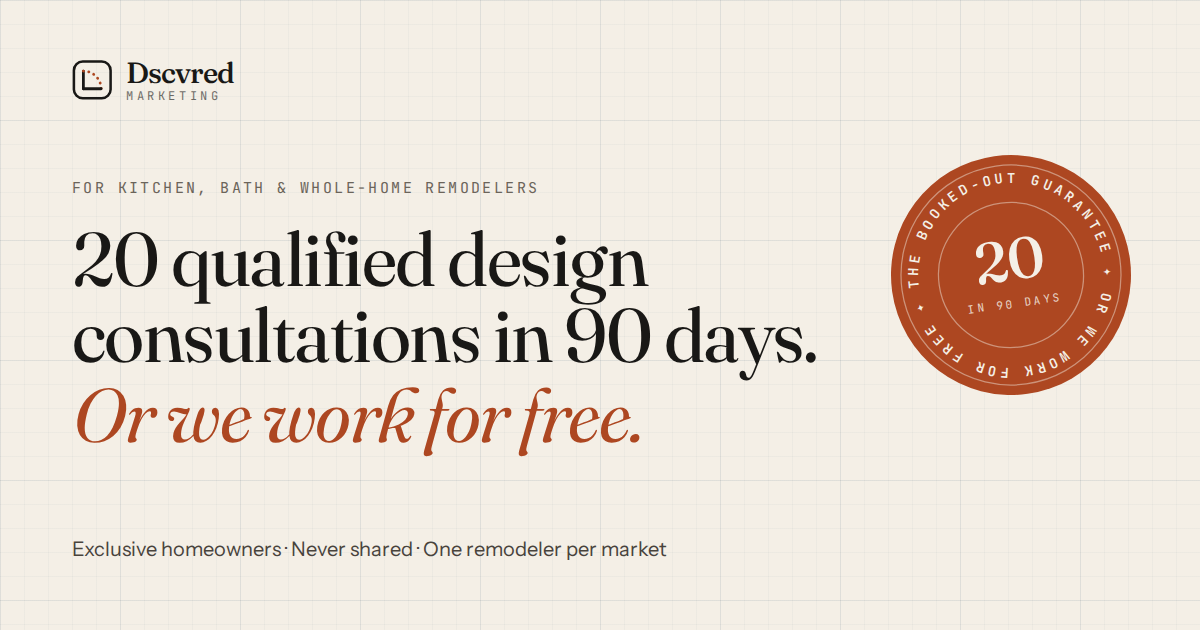
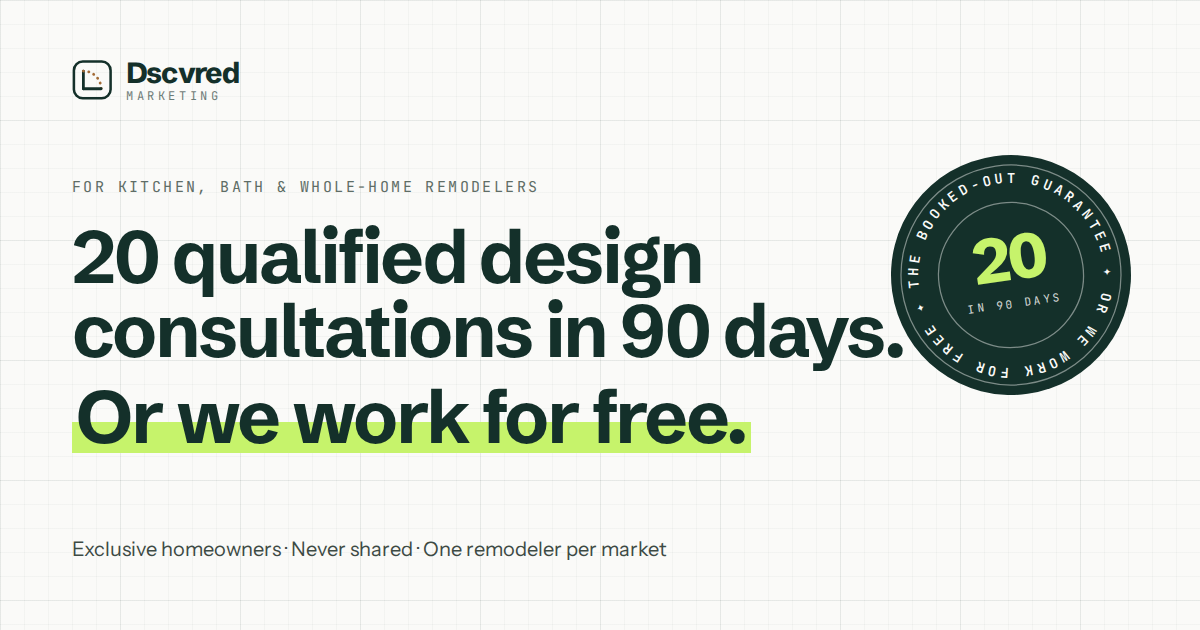
Retheme landing page to forest green, oak and lime
Replace the cream/terracotta serif look with bone-white pages, deep
forest sections, oak accents, lime calls to action and Schibsted
Grotesk headlines with a highlighter treatment. Regenerate OG image
and favicon to match.

Claude-Session: https://claude.ai/code/session_01GncxjucWYBxJEYKny6fkSn

diff --git a/site/src/styles/global.css b/site/src/styles/global.css
@@ -1,30 +1,31 @@
 @import "tailwindcss";
 
-@import "@fontsource-variable/fraunces/opsz.css";
-@import "@fontsource-variable/fraunces/opsz-italic.css";
+@import "@fontsource-variable/schibsted-grotesk/wght.css";
 @import "@fontsource-variable/instrument-sans/wght.css";
 @import "@fontsource-variable/jetbrains-mono/wght.css";
 
 @theme {
-  --color-paper: #f4efe6;
-  --color-paper-2: #ebe4d7;
-  --color-card: #fbf8f3;
-  --color-ink: #191816;
-  --color-ink-2: #262421;
-  --color-ink-3: #34312c;
-  --color-body: #48433c;
-  --color-muted: #6b645a;
-  --color-line: #d9d0c0;
-  --color-line-dark: #3d3a35;
-  --color-clay: #ad4721;
-  --color-clay-dark: #8f3817;
-  --color-clay-soft: #f2ddd0;
-  --color-brass: #c39a5a;
-  --color-blueprint: #2f4b6e;
-  --color-sage: #3e6a4f;
-  --color-sage-soft: #dfe9df;
+  /* Forest & oak: bone-white pages, deep forest sections, oak accents, lime calls to action */
+  --color-paper: #fafaf8;
+  --color-paper-2: #eff2ee;
+  --color-card: #ffffff;
+  --color-ink: #14302a;
+  --color-ink-2: #1b3b33;
+  --color-ink-3: #24493f;
+  --color-body: #3d4a44;
+  --color-muted: #5f6d66;
+  --color-line: #dce3dd;
+  --color-line-dark: #2f5247;
+  --color-oak: #8c5a2b;
+  --color-oak-dark: #6f4520;
+  --color-oak-light: #d9a877;
+  --color-lime: #c6f36b;
+  --color-lime-dark: #b2e24f;
+  --color-lime-soft: #eef8d9;
+  --color-sage: #2f7d55;
+  --color-sage-soft: #e1f1e6;
 
-  --font-display: "Fraunces Variable", ui-serif, Georgia, serif;
+  --font-display: "Schibsted Grotesk Variable", ui-sans-serif, system-ui, sans-serif;
   --font-sans: "Instrument Sans Variable", ui-sans-serif, system-ui, sans-serif;
   --font-mono: "JetBrains Mono Variable", ui-monospace, SFMono-Regular, monospace;
 
@@ -50,16 +51,16 @@
   h1, h2, h3, h4 {
     font-family: var(--font-display);
     color: var(--color-ink);
-    font-optical-sizing: auto;
-    letter-spacing: -0.02em;
-    line-height: 1.05;
-    font-weight: 420;
+    letter-spacing: -0.035em;
+    line-height: 1.04;
+    font-weight: 700;
     text-wrap: balance;
   }
   p { text-wrap: pretty; }
-  ::selection { background: var(--color-clay); color: #fff; }
+  .font-display { font-weight: 700; letter-spacing: -0.03em; }
+  ::selection { background: var(--color-lime); color: var(--color-ink); }
   :focus-visible {
-    outline: 2px solid var(--color-clay);
+    outline: 2px solid var(--color-ink);
     outline-offset: 3px;
     border-radius: 4px;
   }
@@ -111,11 +112,11 @@
     white-space: nowrap;
   }
   .btn-primary {
-    background: var(--color-clay);
-    color: #fff;
-    box-shadow: 0 1px 0 rgba(255,255,255,.18) inset, 0 10px 24px -12px rgba(173,71,33,.7);
+    background: var(--color-lime);
+    color: var(--color-ink);
+    box-shadow: 0 0 0 1px rgba(20,48,42,.12) inset, 0 10px 24px -12px rgba(20,48,42,.45);
   }
-  .btn-primary:hover { background: var(--color-clay-dark); transform: translateY(-1px); }
+  .btn-primary:hover { background: var(--color-lime-dark); transform: translateY(-1px); }
   .btn-primary .arrow { transition: transform .2s var(--ease-out-soft); }
   .btn-primary:hover .arrow { transform: translateX(3px); }
   .btn-ghost {
@@ -133,27 +134,35 @@
 
   .blueprint-grid {
     background-image:
-      linear-gradient(to right, rgba(47,75,110,.07) 1px, transparent 1px),
-      linear-gradient(to bottom, rgba(47,75,110,.07) 1px, transparent 1px),
-      linear-gradient(to right, rgba(47,75,110,.035) 1px, transparent 1px),
-      linear-gradient(to bottom, rgba(47,75,110,.035) 1px, transparent 1px);
+      linear-gradient(to right, rgba(20,48,42,.06) 1px, transparent 1px),
+      linear-gradient(to bottom, rgba(20,48,42,.06) 1px, transparent 1px),
+      linear-gradient(to right, rgba(20,48,42,.03) 1px, transparent 1px),
+      linear-gradient(to bottom, rgba(20,48,42,.03) 1px, transparent 1px);
     background-size: 120px 120px, 120px 120px, 24px 24px, 24px 24px;
   }
   .blueprint-grid-dark {
     background-image:
-      linear-gradient(to right, rgba(244,239,230,.06) 1px, transparent 1px),
-      linear-gradient(to bottom, rgba(244,239,230,.06) 1px, transparent 1px),
-      linear-gradient(to right, rgba(244,239,230,.025) 1px, transparent 1px),
-      linear-gradient(to bottom, rgba(244,239,230,.025) 1px, transparent 1px);
+      linear-gradient(to right, rgba(250,250,248,.06) 1px, transparent 1px),
+      linear-gradient(to bottom, rgba(250,250,248,.06) 1px, transparent 1px),
+      linear-gradient(to right, rgba(250,250,248,.025) 1px, transparent 1px),
+      linear-gradient(to bottom, rgba(250,250,248,.025) 1px, transparent 1px);
     background-size: 120px 120px, 120px 120px, 24px 24px, 24px 24px;
   }
 
   .ui-shadow {
     box-shadow:
       0 1px 0 rgba(255,255,255,.7) inset,
-      0 1px 2px rgba(25,24,22,.06),
-      0 12px 32px -12px rgba(25,24,22,.22),
-      0 40px 80px -40px rgba(25,24,22,.25);
+      0 1px 2px rgba(20,48,42,.06),
+      0 12px 32px -12px rgba(20,48,42,.18),
+      0 40px 80px -40px rgba(20,48,42,.22);
+  }
+
+  /* Highlighter stroke behind key phrases */
+  .hl {
+    background: linear-gradient(transparent 56%, var(--color-lime) 56%, var(--color-lime) 90%, transparent 90%);
+    padding-inline: .06em;
+    -webkit-box-decoration-break: clone;
+    box-decoration-break: clone;
   }
 
   .placeholder-mark {
@@ -183,7 +192,7 @@
   .floaty { animation: floaty 7s ease-in-out infinite; }
   .floaty-delay { animation-delay: -3.5s; }
 
-  @keyframes pulse-dot { 0% { box-shadow: 0 0 0 0 rgba(62,106,79,.5) } 100% { box-shadow: 0 0 0 10px rgba(62,106,79,0) } }
+  @keyframes pulse-dot { 0% { box-shadow: 0 0 0 0 rgba(198,243,107,.6) } 100% { box-shadow: 0 0 0 10px rgba(198,243,107,0) } }
   .pulse-dot { animation: pulse-dot 1.8s infinite; }
 }
 
@@ -205,12 +214,12 @@ input[type="range"].range {
 input[type="range"].range::-webkit-slider-runnable-track {
   height: 4px;
   border-radius: 4px;
-  background: linear-gradient(to right, var(--color-clay) var(--fill, 50%), var(--color-line-dark) var(--fill, 50%));
+  background: linear-gradient(to right, var(--color-lime) var(--fill, 50%), var(--color-line-dark) var(--fill, 50%));
 }
 input[type="range"].range::-moz-range-track {
   height: 4px;
   border-radius: 4px;
-  background: linear-gradient(to right, var(--color-clay) var(--fill, 50%), var(--color-line-dark) var(--fill, 50%));
+  background: linear-gradient(to right, var(--color-lime) var(--fill, 50%), var(--color-line-dark) var(--fill, 50%));
 }
 input[type="range"].range::-webkit-slider-thumb {
   -webkit-appearance: none;
@@ -219,7 +228,7 @@ input[type="range"].range::-webkit-slider-thumb {
   margin-top: -9px;
   border-radius: 50%;
   background: var(--color-paper);
-  border: 5px solid var(--color-clay);
+  border: 5px solid var(--color-lime);
   box-shadow: 0 2px 8px rgba(0,0,0,.35);
 }
 input[type="range"].range::-moz-range-thumb {
@@ -227,7 +236,7 @@ input[type="range"].range::-moz-range-thumb {
   height: 14px;
   border-radius: 50%;
   background: var(--color-paper);
-  border: 5px solid var(--color-clay);
+  border: 5px solid var(--color-lime);
   box-shadow: 0 2px 8px rgba(0,0,0,.35);
 }
 
@@ -243,7 +252,7 @@ dialog.check-dialog {
   overflow: visible;
 }
 dialog.check-dialog::backdrop {
-  background: rgba(25, 24, 22, 0.62);
+  background: rgba(12, 30, 25, 0.6);
   backdrop-filter: blur(4px);
 }
 @media (prefers-reduced-motion: no-preference) {
@@ -280,21 +289,21 @@ dialog.check-dialog::backdrop {
   transition: all .15s;
 }
 .option-tile[data-multi] .tick { border-radius: .35rem; }
-.option-tile:has(input:focus-visible) { outline: 2px solid var(--color-clay); outline-offset: 2px; }
+.option-tile:has(input:focus-visible) { outline: 2px solid var(--color-ink); outline-offset: 2px; }
 .option-tile:has(input:checked) {
-  border-color: var(--color-clay);
-  background: #fdf6f1;
-  box-shadow: 0 0 0 1px var(--color-clay) inset;
+  border-color: var(--color-ink);
+  background: var(--color-lime-soft);
+  box-shadow: 0 0 0 1px var(--color-ink) inset;
 }
 .option-tile:has(input:checked) .tick {
-  background: var(--color-clay);
-  border-color: var(--color-clay);
+  background: var(--color-ink);
+  border-color: var(--color-ink);
 }
 .option-tile:has(input:checked) .tick::after {
   content: "";
   width: .35rem;
   height: .6rem;
-  border: solid #fff;
+  border: solid var(--color-lime);
   border-width: 0 2px 2px 0;
   transform: rotate(45deg) translate(-1px, -1px);
 }
@@ -309,6 +318,6 @@ dialog.check-dialog::backdrop {
   font-size: 1rem;
   transition: border-color .15s, box-shadow .15s;
 }
-.field::placeholder { color: #9a9286; }
-.field:focus { outline: none; border-color: var(--color-ink); box-shadow: 0 0 0 3px rgba(25,24,22,.08); }
+.field::placeholder { color: #8c9993; }
+.field:focus { outline: none; border-color: var(--color-ink); box-shadow: 0 0 0 3px rgba(20,48,42,.1); }
 .field[aria-invalid="true"] { border-color: #b3261e; box-shadow: 0 0 0 3px rgba(179,38,30,.1); }

diff --git a/site/src/config/site.ts b/site/src/config/site.ts
@@ -34,7 +34,7 @@ export const site = {
     // Cal.com event link, e.g. 'your-name/pipeline-audit'
     calLink: '',
     // Your Cal.com brand colour (matches the site)
-    calBrandColor: '#ad4721',
+    calBrandColor: '#14302a',
   },
 
   tracking: {
